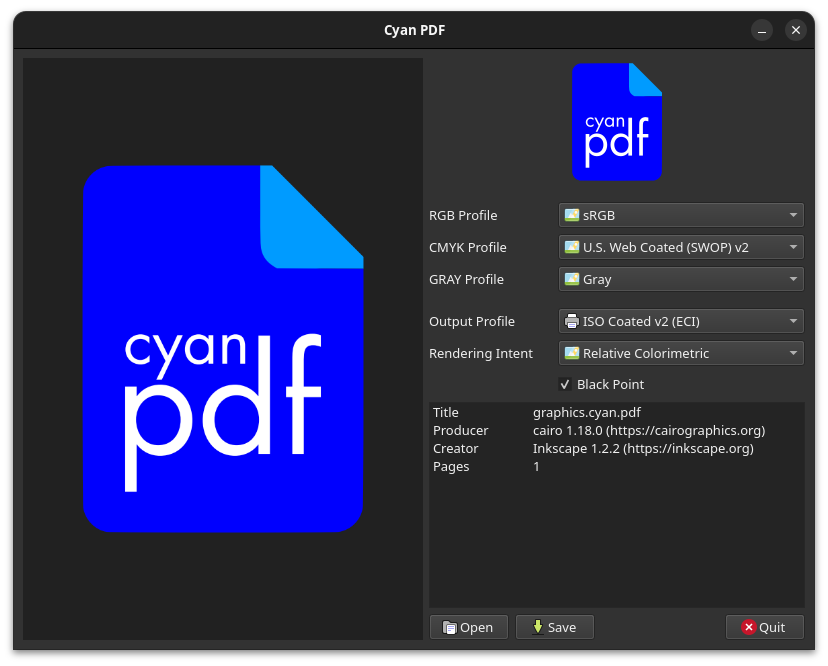
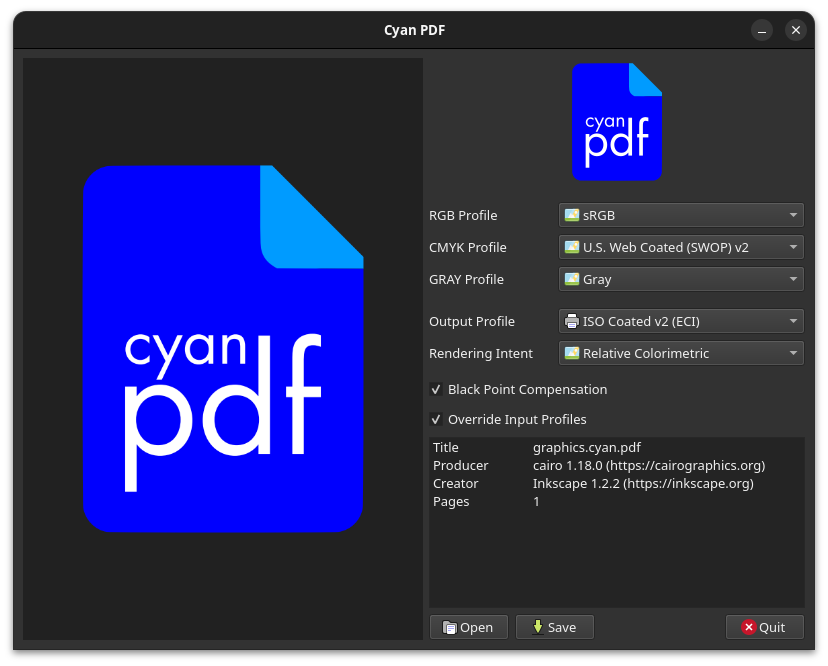
Update docs

Changed region(s): [[0.5133, 0.5706, 0.936, 0.7808]]

diff --git a/README.md b/README.md
@@ -14,7 +14,7 @@ To begin, create a PDF in your preferred application and then open it with Cyan 
 
 Before you can use Cyan PDF, you must configure the color profiles.
 
-* **Default Profiles:** Set a fallback profile for each colorspace: **RGB**, **CMYK**, and **GRAY**. Cyan PDF will use these if your input PDF doesn't contain embedded profiles.
+* **Input Profiles:** Set a fallback profile for each colorspace: **RGB**, **CMYK**, and **GRAY**. Cyan PDF will use these if your input PDF doesn't contain embedded profiles, or `Override Input Profiles` is checked *(default on)*.
 * **Output Profile**: Next, set the output profile for your target printer. Only **CMYK** and **GRAY** profiles are supported for output. You also need to specify the **rendering intent** and the **black point compensation**.
 
 Once you have configured these settings, click **Save**.
@@ -71,7 +71,7 @@ cmake --install . --prefix /some/location
     ├── applications
     │   └── graphics.cyan.pdf.desktop
     ├── doc
-    │   └── cyanpdf-0.9.0
+    │   └── cyanpdf-0.9.1
     │       ├── LICENSE
     │       └── README.md
     └── icons
